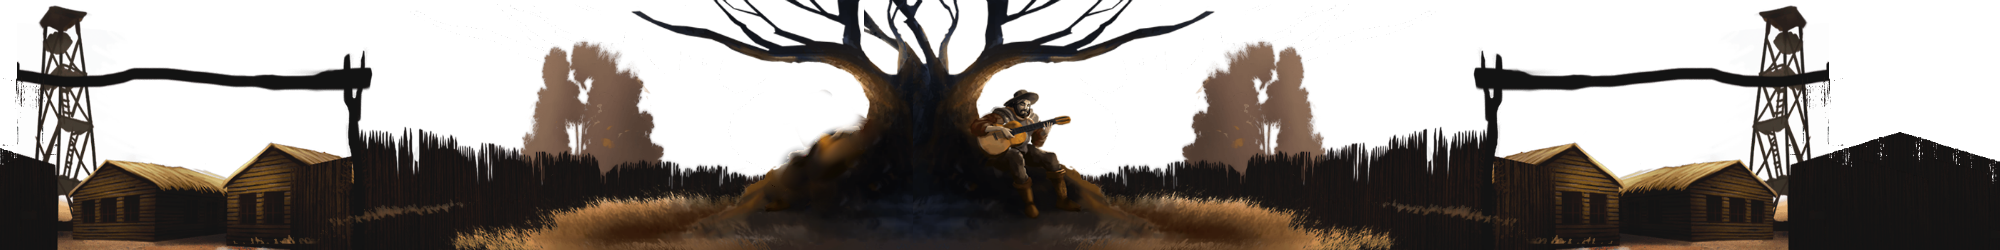
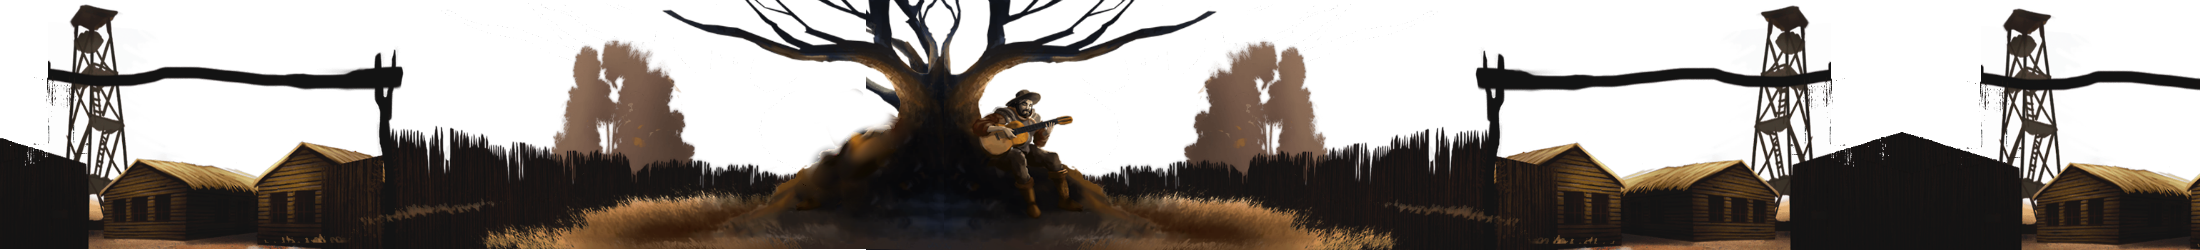
Finished

diff --git a/app/assets/stylesheets/application.css b/app/assets/stylesheets/application.css
@@ -15,7 +15,7 @@
  */
 
 body {
-  padding-top: 270px;
+  padding-top: 200px;
   padding-bottom: 40px;
   background-color: rgba(255,129,25,0.45);
 }
@@ -26,18 +26,18 @@ header .navbar-inverse .navbar-brand {
     font-family: Helvetica, 'Gibson', sans-serif, Arial, sans-serif;
     font-weight: bold;
     font-variant: normal;
-    height: 200px;
+    height: 150px;
   }
 header .navbar-header>img {
     display: inline-block;
-    margin-top: 30px;
+    margin-top: 10px;
   }
 
 .session-sign{
   color: black;
   width: 130px;
   text-align: center;
-  margin-top: 177px;
+  margin-top: 127px;
   margin-right: 40px;
   background-color: #FF8119;
   border-color: black;
@@ -45,7 +45,7 @@ header .navbar-header>img {
 
 .identification{
   color: #FF8119;
-  margin-top: 185px;
+  margin-top: 135px;
   margin-right: 10px;
   font-size: 24px;
   font-family: Helvetica, 'Gibson', sans-serif, Arial, sans-serif;
@@ -59,14 +59,14 @@ header .navbar-header>img {
 }
 
 header .navbar-brand .format-gauchada{
-  margin-top: 80px;
+  margin-top: 70px;
   font-size: 40px;
 }
 
 .fondo-gauchada{
   left: 0;
   width: 100%;
-  height: 250px;
+  height: 180px;
   position:absolute;
   z-index: -1;
 }

diff --git a/app/views/layouts/_signoutbutton.html b/app/views/layouts/_signoutbutton.html
@@ -1,0 +1,15 @@
+<button type="button" class="btn btn-lg btn-warning pull-right session-sign" data-toggle="modal" data-target="#myModal">Salir</button>
+	<div class="modal fade" id="myModal" tabindex="-1" role="dialog" aria-labelledby="cerrando_sesión">
+		 <div class="modal-dialog" role="document">
+		    <div class="modal-content msg">
+		      <div class="modal-body">
+		        <button type="button" class="close" data-dismiss="modal" aria-label="Close"><span aria-hidden="true">&times;</span></button>
+		        <h4 class="modal-title" id="cerrando_sesión">¿Estás seguro/a de que querés cerrar sesión?</h4>
+		      </div>
+		      <div class="modal-footer">
+		        <%= link_to "Salir", destroy_usuario_session_path , method: :delete, class: "btn btn-warning" %>
+		        <button type="button" class="btn btn-default" data-dismiss="modal">Cancelar</button>
+		      </div>
+		    </div>
+		 </div>
+	</div>

diff --git a/app/assets/stylesheets/usuarios.scss b/app/assets/stylesheets/usuarios.scss
@@ -7,13 +7,13 @@
 .form_lbl_email_2{
   display: inline;
   position: relative;
-  margin-right: 120px;
+  margin-right: 135px;
 }
 
 .form_lbl_pssw{
   display: inline;
   position: relative;
-  margin-right: 90px;
+  margin-right: 95px;
 }
 
 .form_lbl_nom{
@@ -37,7 +37,7 @@
 .form_lbl_fn{
   display: inline;
   position: relative;
-  margin-right: 79px;
+  margin-right: 90px;
 }
 
 .form_lbl_pssw_conf{
@@ -49,7 +49,7 @@
 .form_lbl_tel{
   display: inline;
   position: relative;
-  margin-right: 100px;
+  margin-right: 114px;
 }
 
 .submitter_2{

diff --git a/app/models/usuario.rb b/app/models/usuario.rb
@@ -5,5 +5,13 @@ class Usuario < ActiveRecord::Base
   devise :database_authenticatable, :registerable,
          :recoverable, :rememberable, :trackable, :validatable
 
-	belongs_to :logro
+  validate :is_eighteen?
+
+	def is_eighteen?
+	   date = Time.parse ("#{ fecha_nacimiento_year + fecha_nacimiento_month + fecha_nacimiento_day } ")
+	   date > Time.now - 18.years ? true : false
+	end
+
+  belongs_to :logro
+
 end
